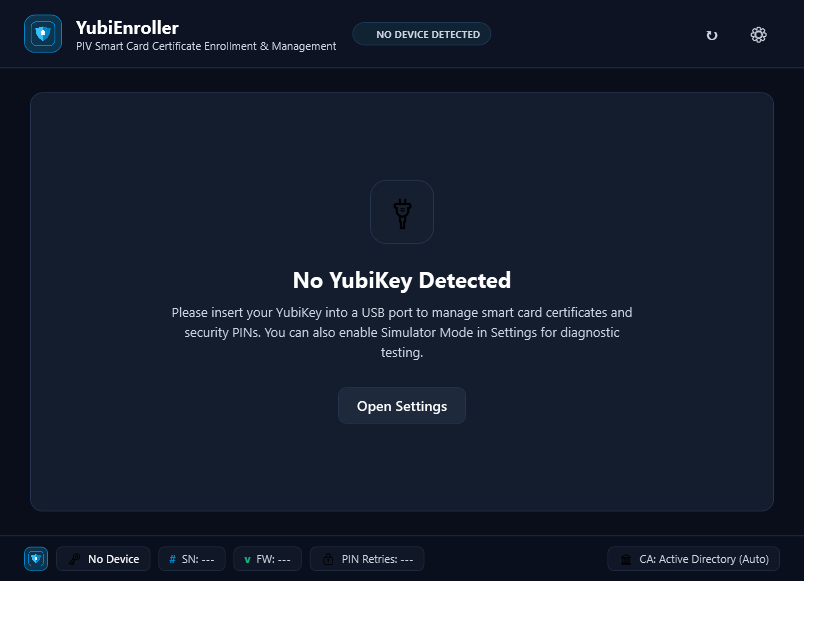
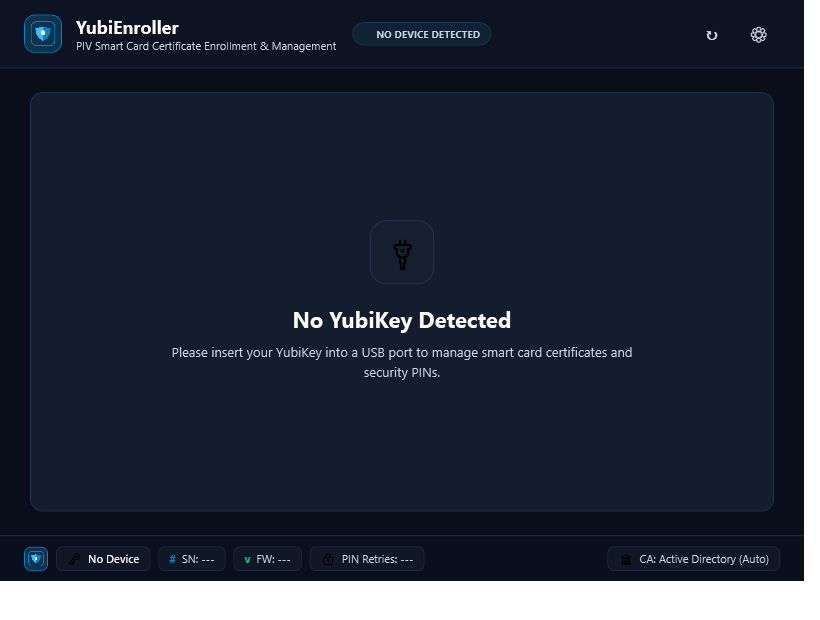
Support --template and aliases in CLI enrollment and update documentation

Changed region(s): [[0.2134, 0.3065, 0.7622, 0.6129], [0.4268, 0.6435, 0.5488, 0.6742]]

diff --git a/tests/YubiEnroller.Tests/SimulatorAndEnrollmentTests.cs b/tests/YubiEnroller.Tests/SimulatorAndEnrollmentTests.cs
@@ -423,6 +423,19 @@ public class SimulatorAndEnrollmentTests
     }
 
     [Fact]
+    public void CliHandler_ParseArgs_TemplateAliases_ParsedCorrectly()
+    {
+        var opts1 = CliHandler.ParseArgs(new[] { "-t", "SmartcardUser" });
+        Assert.Equal("SmartcardUser", opts1.Template);
+
+        var opts2 = CliHandler.ParseArgs(new[] { "--cert-template", "CustomTemplate1" });
+        Assert.Equal("CustomTemplate1", opts2.Template);
+
+        var opts3 = CliHandler.ParseArgs(new[] { "--certificate-template", "CustomTemplate2" });
+        Assert.Equal("CustomTemplate2", opts3.Template);
+    }
+
+    [Fact]
     public async Task CliHandler_RunAsync_MissingPin_ReturnsExitCode1()
     {
         string[] args = new[] { "--silent", "--simulator" };

diff --git a/src/YubiEnroller/Services/CliHandler.cs b/src/YubiEnroller/Services/CliHandler.cs
@@ -78,7 +78,9 @@ public static class CliHandler
                 options.OnBehalfOf = args[++i];
             }
             else if ((arg.Equals("--template", StringComparison.OrdinalIgnoreCase) ||
-                      arg.Equals("-t", StringComparison.OrdinalIgnoreCase)) && i + 1 < args.Length)
+                      arg.Equals("-t", StringComparison.OrdinalIgnoreCase) ||
+                      arg.Equals("--cert-template", StringComparison.OrdinalIgnoreCase) ||
+                      arg.Equals("--certificate-template", StringComparison.OrdinalIgnoreCase)) && i + 1 < args.Length)
             {
                 options.Template = args[++i];
             }

diff --git a/README.md b/README.md
@@ -165,8 +165,8 @@ YubiEnroller includes a built-in headless CLI engine for enterprise deployment a
 # Standard headless enrollment for logged-in workstation user:
 .\YubiEnroller.exe --silent --pin 123456
 
-# Helpdesk: Enroll on Behalf Of another user and set a new personal PIN:
-.\YubiEnroller.exe --silent --on-behalf-of CORP\jdoe --pin 123456 --new-pin 829104
+# Helpdesk: Enroll on Behalf Of another user with a specific template and set a new personal PIN:
+.\YubiEnroller.exe --silent --on-behalf-of CORP\jdoe --template SmartcardUser --pin 123456 --new-pin 829104
 
 # Enforce hardware touch sensor requirement during enrollment:
 .\YubiEnroller.exe --silent --pin 123456 --touch-policy Always
